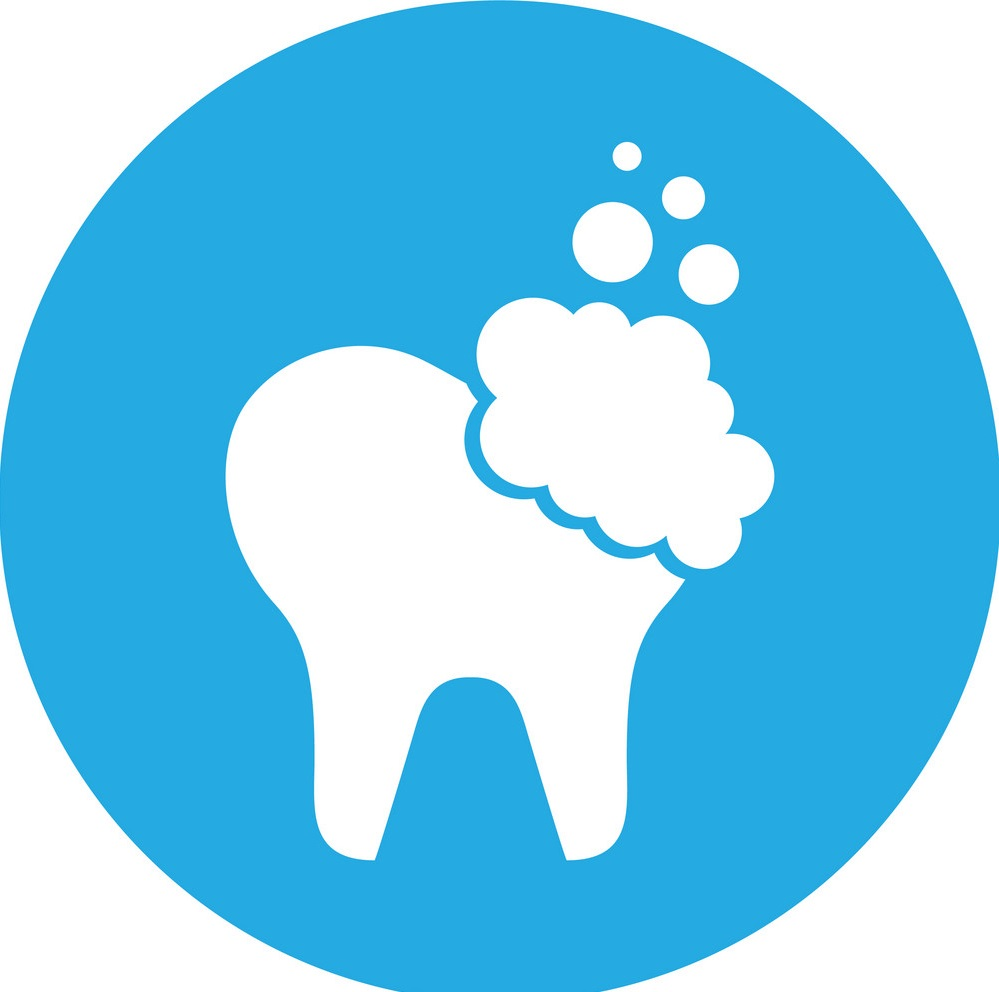
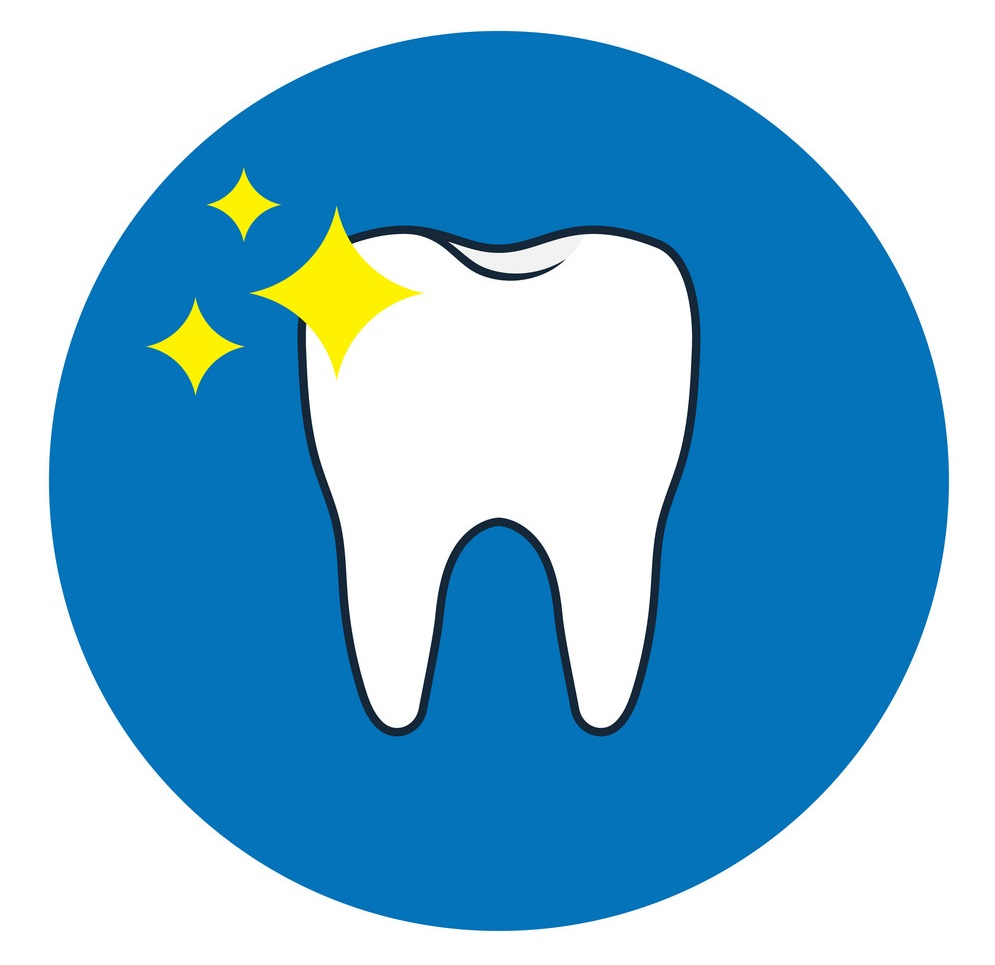
Images rendered successfully in step indicator

diff --git a/src/app/firstAid/data.js b/src/app/firstAid/data.js
@@ -3,26 +3,31 @@ export default {
     {
       title: 'Step one',
       body:
-        'العثور على السن، وإمساكه من الجزء المستخدم في المضغ (التاج)، ولا يجب أبدًا لمس جذور السن.'
+        'العثور على السن، وإمساكه من الجزء المستخدم في المضغ (التاج)، ولا يجب أبدًا لمس جذور السن.',
+      image: require('./images/tooth_injury/step1.jpg')
     },
     {
       title: 'Step two',
       body:
-        '	إذا كان السن متسخًا، يجب شطفه بلطف باستخدام الماء النظيف فقط، ولا يستخدم الصابون، أو أي من المواد الكيميائية، مع عدم القيام بفرك السن، أو تجفيفه، كما لا يجب لف السن بمنديل، أو قطعة قماش.'
+        '	إذا كان السن متسخًا، يجب شطفه بلطف باستخدام الماء النظيف فقط، ولا يستخدم الصابون، أو أي من المواد الكيميائية، مع عدم القيام بفرك السن، أو تجفيفه، كما لا يجب لف السن بمنديل، أو قطعة قماش.',
+      image: require('./images/tooth_injury/step2.jpg')
     },
     {
       title: 'Step three',
       body:
-        'محاولة إعادة السن إلى موضعه في اللثة على الفور، وذلك بالقيام بوضعه برفق، والقيام بالعض عليه بلطف حتى يستقر في مكانه.'
+        'محاولة إعادة السن إلى موضعه في اللثة على الفور، وذلك بالقيام بوضعه برفق، والقيام بالعض عليه بلطف حتى يستقر في مكانه.',
+      image: require('./images/tooth_injury/step3.jpg')
     },
     {
       title: 'Step four',
       body:
-        'عند عدم القدرة على إعادة السن لمكانه، يجب وضعه في كوب لبن، أو وضعه بالفم بجوار الخد، لكن لا يجب حفظ السن في الماء.'
+        'عند عدم القدرة على إعادة السن لمكانه، يجب وضعه في كوب لبن، أو وضعه بالفم بجوار الخد، لكن لا يجب حفظ السن في الماء.',
+      image: require('./images/tooth_injury/step4.jpg')
     },
     {
       title: 'Step five',
-      body: 'الذهاب للطبيب في خلال ثلاثين دقيقة للتدخل السريع.'
+      body: 'الذهاب للطبيب في خلال ثلاثين دقيقة للتدخل السريع.',
+      image: require('./images/tooth_injury/step5.jpg')
     }
   ]
 };

diff --git a/src/app/firstAid/InjuryButton.js b/src/app/firstAid/InjuryButton.js
@@ -1,73 +1,70 @@
 import React, { Component } from 'react';
 import {
-	Platform,
-	StyleSheet,
-	Text,
-	View,
-	Image,
-	ScrollView
+  Platform,
+  StyleSheet,
+  Text,
+  View,
+  Image,
+  ScrollView
 } from 'react-native';
 const assets = require('./assets.js');
 import { argonTheme } from '../../constants';
 
 const InjuryButton = props => {
-	return (
-		<View style={styles.container}>
-			<View
-				style={[
-					styles.imageContainer,
-					{ backgroundColor: props.backgroundClr }
-				]}
-			>
-				<Image
-					style={styles.imageStyle}
-					source={assets[props.imageSource]}
-				/>
-				<View style={styles.textContainer}>
-					<Text style={styles.imageText}>{props.imageText}</Text>
-				</View>
-			</View>
-		</View>
-	);
+  return (
+    <View style={styles.container}>
+      <View
+        style={[
+          styles.imageContainer,
+          { backgroundColor: props.backgroundClr }
+        ]}
+      >
+        <Image style={styles.imageStyle} source={assets[props.imageSource]} />
+        <View style={styles.textContainer}>
+          <Text style={styles.imageText}>{props.imageText}</Text>
+        </View>
+      </View>
+    </View>
+  );
 };
 
 const styles = StyleSheet.create({
-	container: {
-		flex: 1,
-		justifyContent: 'center',
-		backgroundColor: 'white'
-	},
-	textContainer: {
-		flex: 1,
-		justifyContent: 'center',
-		alignItems: 'center'
-		//margin: 10,
-	},
-	imageText: {
-		fontSize: 50,
-		textAlign: 'center',
-		//margin: 10,
-		fontWeight: 'bold',
-		fontFamily: 'sans-serif-thin'
-	},
-	imageContainer: {
-		overflow: 'hidden',
-		justifyContent: 'center',
-		alignItems: 'center',
-		//margin : 10,
-		borderWidth: 1.5,
-		borderColor: 'white'
-	},
-	imageStyle: {
-		margin: 10,
-		borderWidth: 1,
-		//borderColor:'rgba(0,0,0,0.2)',
-		alignItems: 'center',
-		justifyContent: 'center',
-		width: 150,
-		height: 150,
-		borderRadius: 50
-	}
+  container: {
+    flex: 1,
+    justifyContent: 'center',
+    backgroundColor: 'white'
+  },
+  textContainer: {
+    flex: 1,
+    justifyContent: 'center',
+    alignItems: 'center'
+    //margin: 10,
+  },
+  imageText: {
+    fontSize: 50,
+    textAlign: 'center',
+    //margin: 10,
+    fontWeight: 'bold',
+    fontFamily: 'sans-serif-thin'
+  },
+  imageContainer: {
+    overflow: 'hidden',
+    justifyContent: 'center',
+    alignItems: 'center',
+    //margin : 10,
+    borderWidth: 1.5,
+    borderColor: 'white'
+  },
+  imageStyle: {
+    margin: 10,
+    borderWidth: 1,
+    //borderColor:'rgba(0,0,0,0.2)',
+    alignItems: 'center',
+    justifyContent: 'center',
+    width: 150,
+    height: 150,
+    borderRadius: 50
+  }
 });
 
 export default InjuryButton;

diff --git a/src/app/firstAid/StepIndicator.js b/src/app/firstAid/StepIndicator.js
@@ -64,10 +64,7 @@ export default class StepIndicator extends Component {
         {/* <Text style={styles.title}>{item.title}</Text> */}
         <Text style={styles.body}>{item.body}</Text>
         <View style={styles.imageContainer}>
-          <Image
-            style={styles.imageStyle}
-            source={require('./images/23982553.jpg')}
-          />
+          <Image style={styles.imageStyle} source={item.image} />
         </View>
       </View>
     );
